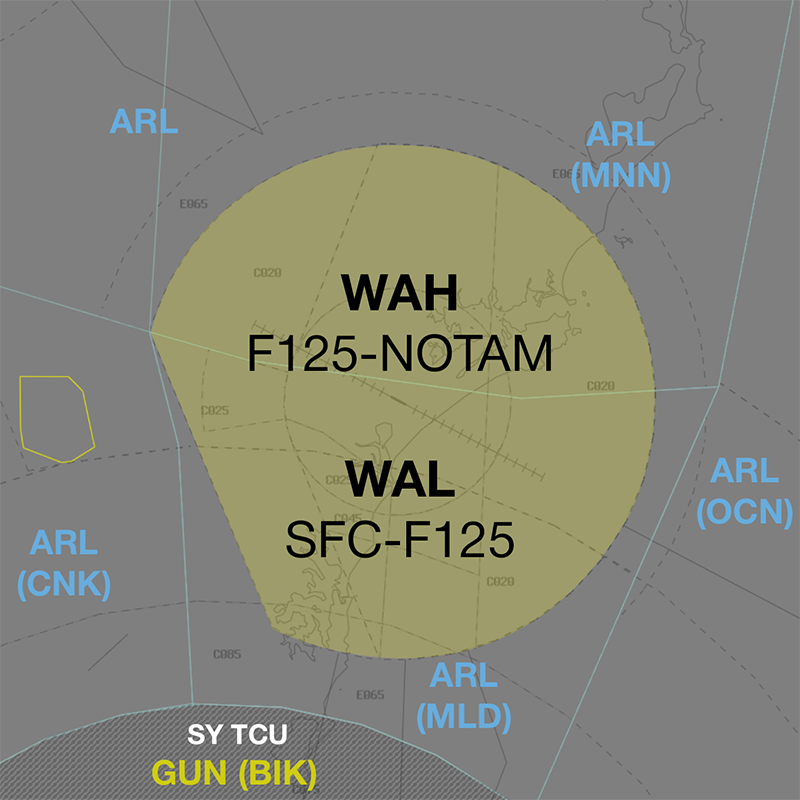
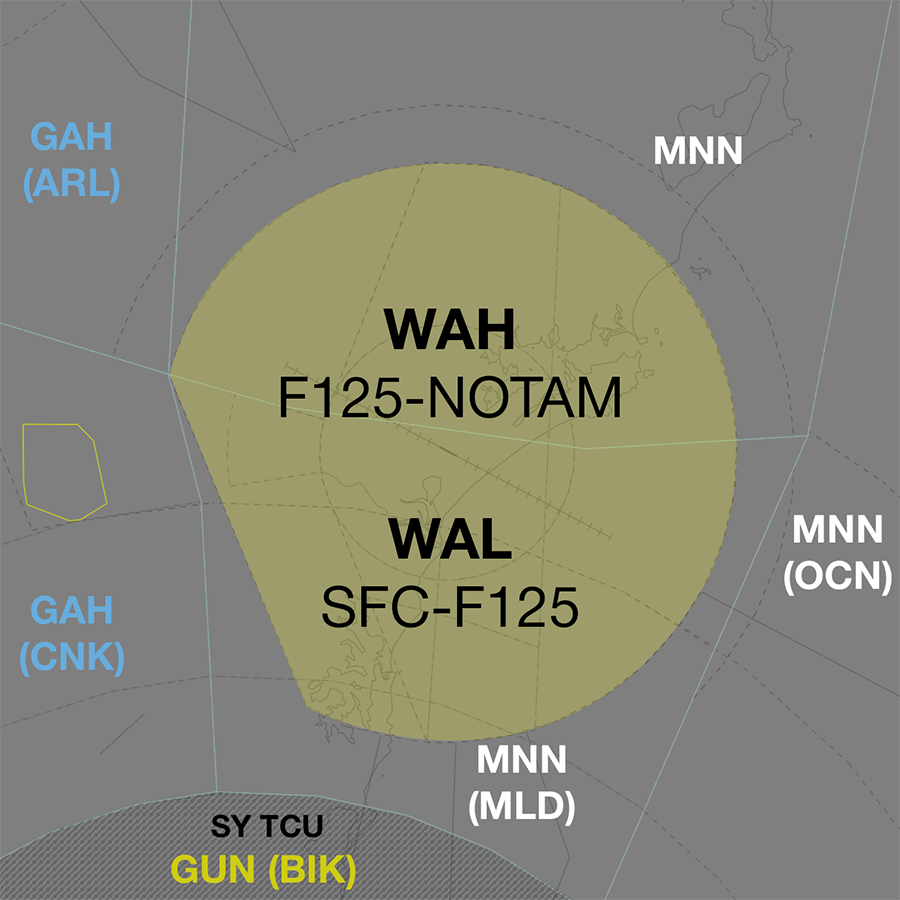
wlm updates

diff --git a/docs/enroute/brisbane/MNN.md b/docs/enroute/brisbane/MNN.md
@@ -60,7 +60,7 @@ Sequencing arrivals from the east into YSSY is the responsibility of OCN. Aircra
 !!! phraseology
     <span class="hotline">**OCN** -> **BIK**</span>: "West of Sydney, QFA12, with your concurrence will be assigned runway 34L due operational requirement"  
     <span class="hotline">**BIK** -> **OCN**</span>: "Concur, QFA12 runway 34L, required landing time 43 due sequence from the west"  
-    <span class="hotline">**ARL** -> **OCN**</span>: "Runway 34L, landing time 43, QFA12"
+    <span class="hotline">**OCN** -> **BIK**</span>: "Runway 34L, landing time 43, QFA12"
 
 ##### Predictable Sequencing Waypoints
 There are ten [Predictable Sequencing](../../../../controller-skills/sequencing/#predictable-sequencing) waypoints available for aircraft inbound YSSY via **N774** and **M636**.
@@ -117,19 +117,19 @@ The following subsectors are responsible for issuing STAR clearance.
 
 ## Local Procedures
 ### Special Use Airspace
-There are multiple volumes of [SUA](../../controller-skills/sua) within ARL airspace, mostly associated with military operations in and out of YWLM.
+There are multiple volumes of [SUA](../../controller-skills/sua) within MNN airspace, mostly associated with military operations in and out of YWLM.
 
 <figure markdown>
-![Notable SUA in ARL Airspace](../img/arl_sua.png){ width="700" }
-  <figcaption>Notable SUA in ARL Airspace</figcaption>
+![Notable SUA in MNN Airspace](../img/mnn_sua.png){ width="700" }
+  <figcaption>Notable SUA in MNN Airspace</figcaption>
 </figure>
 
 WLM TCU must [give heads up coordination](../../terminal/williamtown/#sua-in-enroute-airspace) with the relevant enroute controllers **prior** to any departures intending to operate in a currently inactive SUA.
 
 !!! phraseology
-    <span class="hotline">**WAL** -> **ARL**</span>: "On the groud YWLM, PTHR11, requests activation of R560A `A085-F240`, from 0300 until 0500.”  
-    <span class="hotline">**ARL** -> **WAL**</span>: "PTHR11, expect activation of R560A `A085-F240` at 0300 until 0500."   
-    <span class="hotline">**WAL** -> **ARL**</span>: "PTHR11."  
+    <span class="hotline">**WAL** -> **MNN**</span>: "On the groud YWLM, PTHR11, requests activation of M583 `A085-F240`, from 0300 until 0500.”  
+    <span class="hotline">**MNN** -> **WAL**</span>: "PTHR11, expect activation of M583 `A085-F240` at 0300 until 0500."   
+    <span class="hotline">**WAL** -> **MNN**</span>: "PTHR11."  
     
 Non-participating aircraft intending to transit an activated SUA should be rerouted, where possible, [subject to the VATSIM Code of Conduct](../../sua/#ad-hoc-activations).
 
@@ -159,7 +159,7 @@ The R585A-D and R586A-C restricted areas are located north of the WLM TCU in the
 The MOAs directly adjoin the WLM TCU, and when WAL is online aircraft will be transferred directly to/from the restricted areas. When [WAL is offline](#reclassifications), aircraft will contact MNN for transit through the surrounding civilian airspace.
 
 #### Amberley SUA
-There are three SUA associated with military operations at [Amberley](../../terminal/amberleyoakey) which clip ARL airspace: the R639D restricted area, located northeast of MOR VOR partially in the MDE subsector, and the M661A and M670A-B MOAs, which clips MNN airspace offshore east of YCFS.
+There are three SUA associated with military operations at [Amberley](../../terminal/amberleyoakey) which clip MNN airspace: the R639D restricted area, located northeast of MOR VOR partially in the MDE subsector, and the M661A and M670A-B MOAs, which clips MNN airspace offshore east of YCFS.
 
 AMA (or INL(DOS, INL, SDY) on their behalf) will coordinate the activation these SUA **prior** to any activity.
 
@@ -318,7 +318,7 @@ Voiceless for all aircraft:
 - Tracking via a Procedural SID terminus; and  
 - Assigned the lower of `F120` or the `RFL`
 
-All other aircraft going to ARL CTA will be **Heads-up** Coordinated by WLM TCU.
+All other aircraft going to MNN CTA will be **Heads-up** Coordinated by WLM TCU.
 
 !!! phraseology
     <span class="hotline">**WAL** -> **MLD**</span>: "QJE1597, request DCT OMGAB"  

diff --git a/docs/enroute/brisbane/GAH.md b/docs/enroute/brisbane/GAH.md
@@ -127,7 +127,7 @@ The ARL subsector is additionally responsible for issuing the **STORM 2** coded 
 There are multiple volumes of [SUA](../../controller-skills/sua) within GAH airspace, mostly associated with military operations in and out of YWLM.
 
 <figure markdown>
-![Notable SUA in GAH Airspace](../img/arl_sua.png){ width="700" }
+![Notable SUA in GAH Airspace](../img/gah_sua.png){ width="700" }
   <figcaption>Notable SUA in GAH Airspace</figcaption>
 </figure>
 